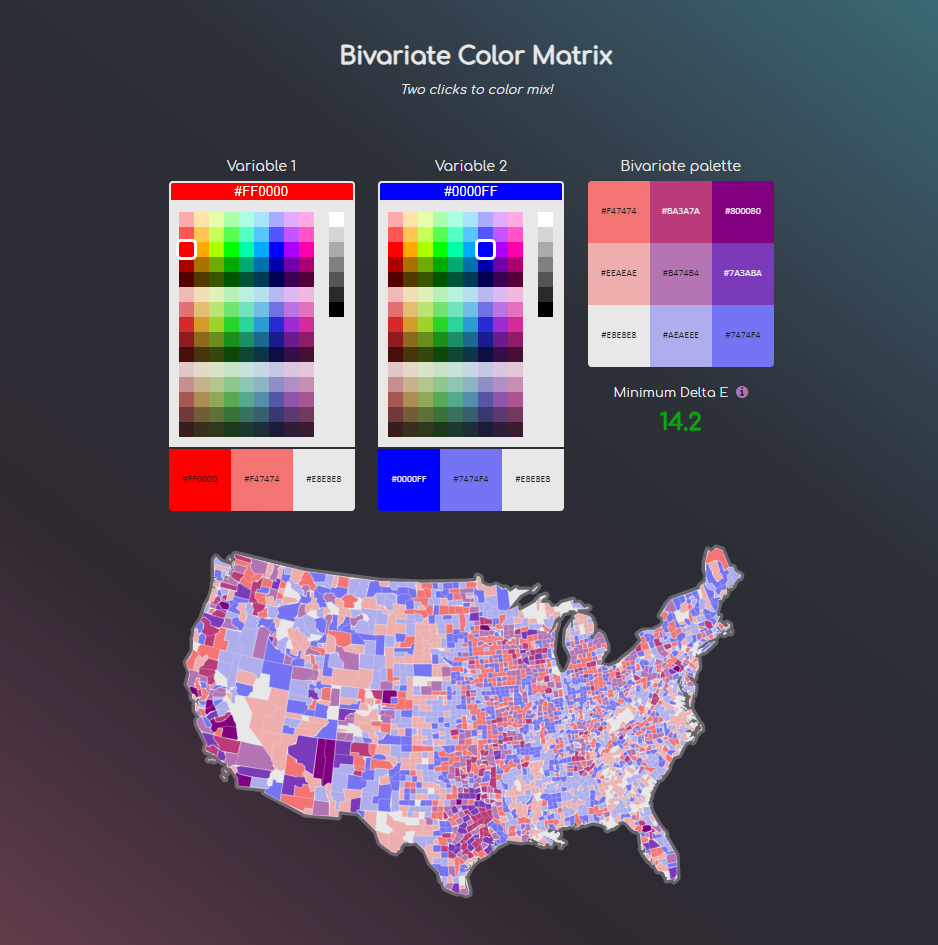
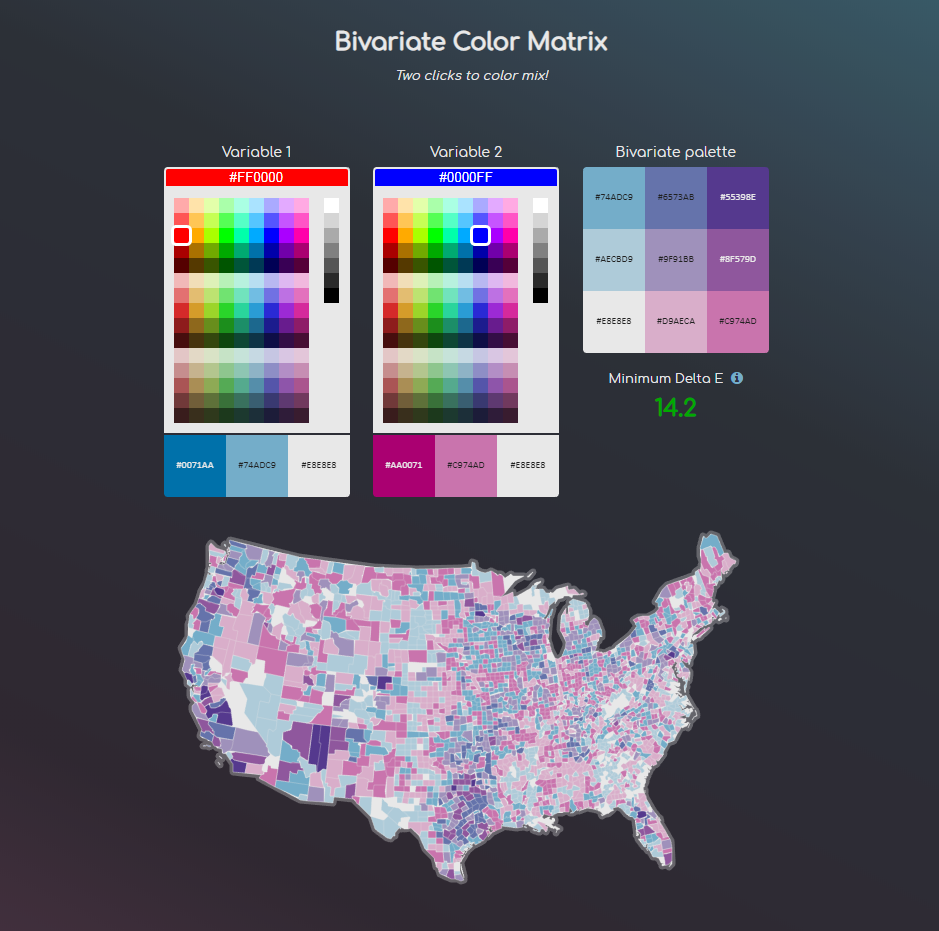
updated default display

diff --git a/index.js b/index.js
@@ -64,21 +64,21 @@ const canvasChange = (canvas, context, color) => {
 
 let textCol;
 //initial canvas color build
-canvasChange(c, ctx, "#FF0000");
-canvasChange(c2, ctx2, "#F47474");
+canvasChange(c, ctx, "#0071aa");
+canvasChange(c2, ctx2, "#74adc9");
 canvasChange(c3, ctx3, lightColor);
-canvasChange(c4, ctx4, "#0000FF");
-canvasChange(c5, ctx5, "#7474F4");
+canvasChange(c4, ctx4, "#aa0071");
+canvasChange(c5, ctx5, "#c974ad");
 canvasChange(c6, ctx6, lightColor);
-canvasChange(c7, ctx7, "#F47474");
-canvasChange(c8, ctx8, "#BA3A7A");
-canvasChange(c9, ctx9, "#800080");
-canvasChange(c10, ctx10, "#EEAEAE");
-canvasChange(c11, ctx11, "#B474B4");
-canvasChange(c12, ctx12, "#7A3ABA");
+canvasChange(c7, ctx7, "#74adc9");
+canvasChange(c8, ctx8, "#6573ab");
+canvasChange(c9, ctx9, "#55398e");
+canvasChange(c10, ctx10, "#aecbd9");
+canvasChange(c11, ctx11, "#9f91bb");
+canvasChange(c12, ctx12, "#8f579d");
 canvasChange(c13, ctx13, lightColor);
-canvasChange(c14, ctx14, "#AEAEEE");
-canvasChange(c15, ctx15, "#7474F4");
+canvasChange(c14, ctx14, "#d9aeca");
+canvasChange(c15, ctx15, "#c974ad");
 
 //Map initialization
 var crs = new L.Proj.CRS('EPSG:2163',
@@ -114,15 +114,15 @@ var countyStyle = {
 };
 
 function getColor(d) {
-  return d === 7 ? '#F47474' :
-      d === 8 ? '#BA3A7A' :
-      d === 9 ? '#800080' :
-      d === 10 ? '#EEAEAE' :
-      d === 11 ? '#B474B4' :
-      d === 12  ? '#7A3ABA' :
-      d === 13  ? '#E8E8E8' :
-      d === 14  ? '#AEAEEE' :
-            '#7474F4';
+  return d === 7 ? '#74adc9' :
+      d === 8 ? '#6573ab' :
+      d === 9 ? '#55398e' :
+      d === 10 ? '#aecbd9' :
+      d === 11 ? '#9f91bb' :
+      d === 12  ? '#8f579d' :
+      d === 13  ? '#e8e8e8' :
+      d === 14  ? '#d9aeca' :
+            '#c974ad';
 }
 
 function colorStyle(feature) {

diff --git a/index.css b/index.css
@@ -6,10 +6,10 @@ body {
 	--font-variable: "Comfortaa";
 }
 a:link {
-	color: #B474B4;
+	color: #74adc9;
 }
 a:visited {
-    color: #B474B4;
+    color: #74adc9;
 }
 a:hover {
 	color: #E8E8E8;
